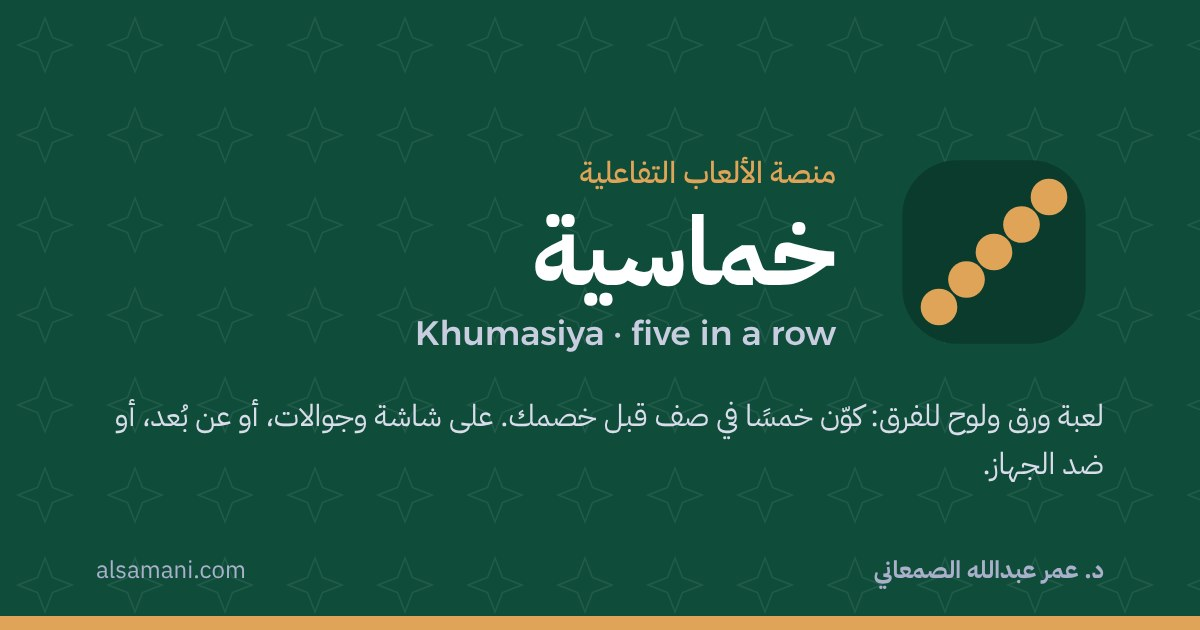
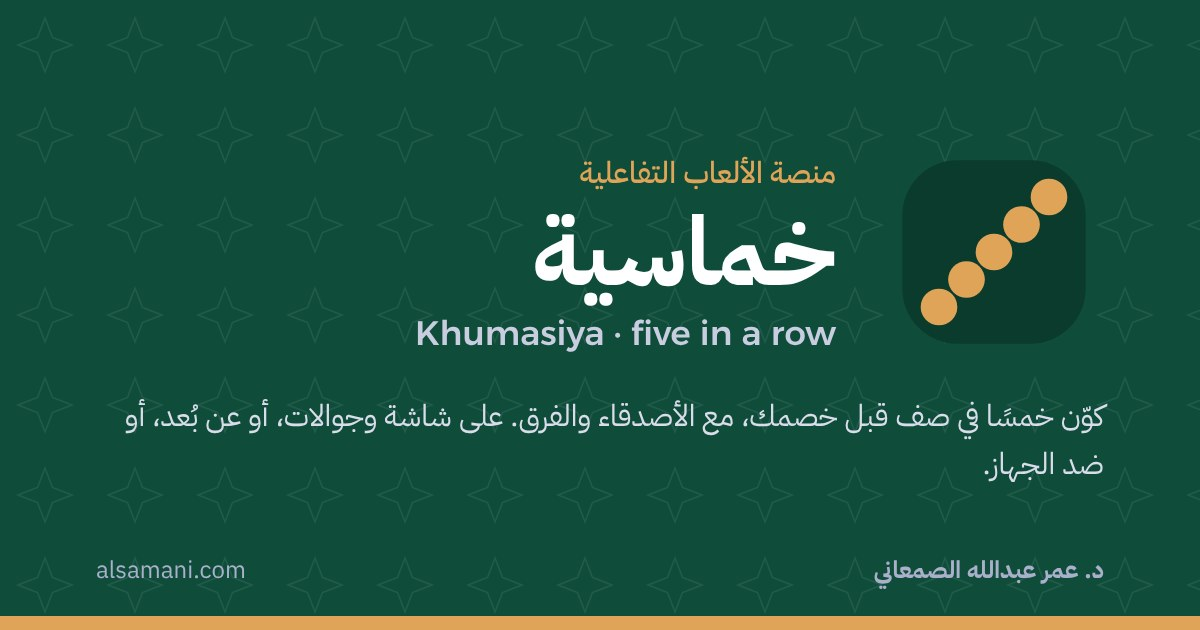
خماسية: تفاعلات وعبارات جاهزة تطير فوق اللوح، وحذف عبارة «لعبة ورق ولوح للفرق»
Claude-Session: https://claude.ai/code/session_01YMViJ1M6kgQFb3eTNHCvJr

Changed region(s): [[0.0925, 0.6333, 0.925, 0.6937]]

diff --git a/play/khumasiya/index.html b/play/khumasiya/index.html
@@ -4,12 +4,12 @@
 <meta charset="utf-8">
 <meta name="viewport" content="width=device-width,initial-scale=1,viewport-fit=cover">
 <title>خماسية: لعبة خمس في صف للفرق | Khumasiya: five in a row | Dr. Omar A. Alsamani</title>
-<meta name="description" content="Khumasiya: a card and board game for teams. Make five in a row before the others, with friends on a big screen and phones, remotely, or against the computer. خماسية: لعبة ورق ولوح للفرق.">
+<meta name="description" content="Khumasiya: make five in a row before the others, with friends on a big screen and phones, remotely, or against the computer. خماسية: خمس في صف قبل خصمك.">
 <link rel="canonical" href="https://alsamani.com/play/khumasiya/">
 <meta property="og:type" content="website">
 <meta property="og:site_name" content="Dr. Omar A. Alsamani">
 <meta property="og:title" content="خماسية: لعبة خمس في صف للفرق | Khumasiya: five in a row | Dr. Omar A. Alsamani">
-<meta property="og:description" content="Khumasiya: a card and board game for teams. Make five in a row before the others, with friends on a big screen and phones, remotely, or against the computer. خماسية: لعبة ورق ولوح للفرق.">
+<meta property="og:description" content="Khumasiya: make five in a row before the others, with friends on a big screen and phones, remotely, or against the computer. خماسية: خمس في صف قبل خصمك.">
 <meta property="og:url" content="https://alsamani.com/play/khumasiya/">
 <meta property="og:image" content="https://alsamani.com/img/og/play-khumasiya.jpg">
 <meta name="twitter:card" content="summary_large_image">
@@ -1397,7 +1397,7 @@ html[dir=ltr] .jr-dch.fd .jr-fold::before{transform:rotate(-45deg)}
 <main data-base="../../">
 <section class="first tl-page sn-page-wrap">
 <nav class="tl-crumb" aria-label="breadcrumb"><a href="../index.html"><span class="ar">منصة الألعاب التفاعلية</span><span class="en">Interactive games</span></a><i class="chev"></i><span><span class="ar">خماسية</span><span class="en">Khumasiya</span></span></nav>
-<header class="kh-head"><svg class="kh-mark" viewBox="0 0 48 48" aria-hidden="true"><rect x="4" y="4" width="40" height="40" rx="12" fill="#0f4d3a"/><g fill="#e0a458"><circle cx="12" cy="36" r="4"/><circle cx="18" cy="30" r="4"/><circle cx="24" cy="24" r="4"/><circle cx="30" cy="18" r="4"/><circle cx="36" cy="12" r="4"/></g><circle cx="36" cy="36" r="3" fill="#fbf6ea" opacity=".5"/><circle cx="12" cy="12" r="3" fill="#fbf6ea" opacity=".5"/></svg><div><h1><span class="ar">خماسية</span><span class="en">Khumasiya</span></h1><p><span class="ar">لعبة ورق ولوح للفرق</span><span class="en">A card and board game for teams</span></p></div></header>
+<header class="kh-head"><svg class="kh-mark" viewBox="0 0 48 48" aria-hidden="true"><rect x="4" y="4" width="40" height="40" rx="12" fill="#0f4d3a"/><g fill="#e0a458"><circle cx="12" cy="36" r="4"/><circle cx="18" cy="30" r="4"/><circle cx="24" cy="24" r="4"/><circle cx="30" cy="18" r="4"/><circle cx="36" cy="12" r="4"/></g><circle cx="36" cy="36" r="3" fill="#fbf6ea" opacity=".5"/><circle cx="12" cy="12" r="3" fill="#fbf6ea" opacity=".5"/></svg><div><h1><span class="ar">خماسية</span><span class="en">Khumasiya</span></h1></div></header>
 <style>/* Khumasiya: a green card table, cream cards, team chips */
 .kh{--felt:#0f4d3a;--felt2:#0b3b2c;--cream:#fbf6ea;--gold:#e0a458;max-width:1100px;margin:0 auto}
 .kh-head{display:flex;align-items:center;justify-content:center;gap:14px;margin:6px 0 22px}.kh-head .kh-mark{width:58px;height:58px}.kh-head h1{margin:0;font-size:2rem}.kh-head p{margin:2px 0 0;color:var(--muted)}
@@ -1465,6 +1465,14 @@ html[dir=ltr] .jr-dch.fd .jr-fold::before{transform:rotate(-45deg)}
 
 @media (max-width:600px){.kh-game{padding:8px;border-radius:16px}.kh-board{gap:2px;padding:3px}.kh-cell{border-radius:3px}}
 .kh-hc .kc{font-family:"Arial Black","Helvetica Neue",Arial,sans-serif;color:#000}.kh-hc .kc.r{color:#d3140b}.kh-hc .kc b{font-weight:900;letter-spacing:-.06em}.kh-hc .kc i{font-family:Arial,sans-serif}
+/* reactions */
+.kh-rx{display:flex;flex-wrap:wrap;gap:6px;justify-content:center;position:relative}
+.kh-rx>button{border:0;background:rgba(0,0,0,.2);border-radius:99px;width:40px;height:40px;font-size:1.25rem;cursor:pointer;touch-action:manipulation}.kh-rx>button:active{transform:scale(.88)}
+.kh-says{display:flex;flex-wrap:wrap;gap:6px;justify-content:center;width:100%}.kh-says[hidden]{display:none}.kh-says button{border:1px solid rgba(255,255,255,.35);background:rgba(0,0,0,.2);color:#fff;border-radius:99px;padding:6px 12px;font:inherit;font-size:.875rem;cursor:pointer}
+.kh-fly{position:fixed;z-index:80;pointer-events:none;transform:translateX(-50%);animation:khFly 3.1s ease-out forwards;text-align:center}
+.kh-fly.emo{font-size:2.6rem;line-height:1}.kh-fly.emo small{display:block;font-size:.8rem;color:#fff;background:rgba(0,0,0,.55);border-radius:99px;padding:1px 8px;margin-top:2px;white-space:nowrap}
+.kh-fly.say{background:#fbf6ea;color:#13281f;border-radius:14px;padding:6px 12px;font-size:.95rem;box-shadow:0 6px 18px rgba(0,0,0,.35);white-space:nowrap}.kh-fly.say b{color:#0f4d3a}
+@keyframes khFly{0%{opacity:0;margin-top:20px}12%{opacity:1}80%{opacity:1}100%{opacity:0;margin-top:-220px}}
 </style>
 <div id="kh" class="kh"><noscript><span class="ar">تعمل هذه اللعبة مع تفعيل JavaScript.</span><span class="en">This game needs JavaScript.</span></noscript></div>
 <script src="https://www.gstatic.com/firebasejs/10.12.2/firebase-app-compat.js"></script><script src="https://www.gstatic.com/firebasejs/10.12.2/firebase-auth-compat.js"></script><script src="https://www.gstatic.com/firebasejs/10.12.2/firebase-database-compat.js"></script><script>window.MD_CFG={"apiKey": "AIzaSyA50i75DT1Is1a6Yn6snW1_JVObc8S3F0Y", "authDomain": "maydan-705ae.firebaseapp.com", "databaseURL": "https://maydan-705ae-default-rtdb.europe-west1.firebasedatabase.app", "projectId": "maydan-705ae", "appId": "1:342187013133:web:d5c2396f0db413f3c51144"};window.MD_MARK="<svg class=\"md-mark\" viewBox=\"0 0 48 48\" aria-hidden=\"true\"><rect x=\"4\" y=\"4\" width=\"40\" height=\"40\" rx=\"12\" fill=\"#23336F\"/><path d=\"M24 9l4.2 6.8 7.8-1.8-1.8 7.8L41 24l-6.8 4.2 1.8 7.8-7.8-1.8L24 39l-4.2-6.8-7.8 1.8 1.8-7.8L7 24l6.8-4.2-1.8-7.8 7.8 1.8z\" fill=\"#C9822B\"/><circle cx=\"24\" cy=\"24\" r=\"6.5\" fill=\"#23336F\"/><circle cx=\"24\" cy=\"24\" r=\"3\" fill=\"#F3E3C7\"/></svg>";</script><script src="https://cdn.jsdelivr.net/npm/qrcode-generator@1.4.4/qrcode.js"></script><script>/* Khumasiya: the rules. Two packs of cards; a 10×10 board with every card except the jacks twice and four free corners.
@@ -1732,7 +1740,7 @@ window.KH = (function () {
     root.innerHTML = `${fresh ? `<div class="kh-card kh-resume"><p>⏸ ${B('لعبة لم تكتمل', 'An unfinished game')} · ${B('الرمز', 'code')} <span dir="ltr">${P.pin}</span></p><div class="kh-row"><button type="button" class="btn solid" id="khRes">${B('أكمل اللعبة ▶', 'Resume ▶')}</button><button type="button" class="btn ghost" id="khDrop">${B('احذفها', 'Remove it')}</button></div></div>` : ''}
       <div class="kh-hero"><div class="kh-mini">${demo()}</div><div>
         <h2>${B('خمس في صف… قبل خصمك!', 'Five in a row… before the others!')}</h2>
-        <p>${B('لعبة ورق ولوح للفرق: العب ورقة من يدك وضع قطعتك على خانتها، وكوّن صفًّا من خمس قطع. ولد أبو عينين يضعك في أي مكان، وولد أبو عين يشيل قطعة خصمك.', 'A card and board game for teams: play a card and put your chip on its space, and make a row of five. A two-eyed jack goes anywhere; a one-eyed jack removes a rival chip.')}</p></div></div>
+        <p>${B('العب ورقة من يدك وضع قطعتك على خانتها، وكوّن صفًّا من خمس قطع. ولد أبو عينين يضعك في أي مكان، وولد أبو عين يشيل قطعة خصمك.', 'Play a card and put your chip on its space, and make a row of five. A two-eyed jack goes anywhere; a one-eyed jack removes a rival chip.')}</p></div></div>
       <div class="kh-modes">
         <button type="button" class="kh-mode" data-go="host"><b>👥 ${B('العب مع الآخرين', 'Play with others')}</b><small>${B('أنشئ لعبة وشارك رمزها: اللوح على شاشة كبيرة والأوراق في الجوالات، أو كلٌّ من مكانه عن بُعد.', 'Create a game and share its code: the board on a big screen and the hands on phones, or everyone remote.')}</small></button>
         <button type="button" class="kh-mode" data-go="join"><b>🔢 ${B('ادخل برمز', 'Join with a code')}</b><small>${B('عندك رمز لعبة؟ ادخل واختر فريقك.', 'Got a game code? Join and pick your team.')}</small></button>
@@ -1863,6 +1871,7 @@ window.KH = (function () {
     return '';
   }
   function run() {
+    listenRx();
     on(G.ref.child('mv'), 'child_added', s => { const v = s.val() || {}; apply(s.key, v.k, v.c, v.x); s.ref.remove(); });
     show();
   }
@@ -1927,6 +1936,7 @@ window.KH = (function () {
     on(G.ref.child('st'), 'value', s => { if (!s.exists()) { stop(); root.innerHTML = `<div class="kh-card kh-narrow"><p class="kh-big">${B('انتهت اللعبة', 'The game has ended')}</p><button type="button" class="btn ghost" id="khHome">${B('الرئيسية', 'Home')}</button></div>`; root.querySelector('#khHome').onclick = () => { history.replaceState(null, '', location.pathname); home(); }; return; } G.stt = s.val(); draw(); });
     on(G.ref.child('tm'), 'value', s => { G.tm = s.val() || {}; if (G.stt === 'lobby') draw(); });
     on(G.ref.child('names'), 'value', s => { G.names = s.val() || {}; });
+    listenRx();
     on(G.ref.child('g'), 'value', s => { G.P = s.val(); draw(); });
     on(db.ref('khh/' + pin + '/' + uid), 'value', s => { G.hand = s.val() || []; draw(); });
   }
@@ -1937,12 +1947,34 @@ window.KH = (function () {
     const leave = () => { history.replaceState(null, '', location.pathname); home(); };
     on(G.ref.child('st'), 'value', s => { if (!s.exists()) { stop(); root.innerHTML = `<div class="kh-card kh-narrow"><p class="kh-big">${B('انتهت اللعبة', 'The game has ended')}</p><button type="button" class="btn ghost" id="khHome">${B('الرئيسية', 'Home')}</button></div>`; root.querySelector('#khHome').onclick = leave; } });
     on(G.ref.child('names'), 'value', s => { G.names = s.val() || {}; });
+    listenRx();
     on(G.ref.child('g'), 'value', s => {
       G.P = s.val();
       if (!G.P) { root.innerHTML = `<div class="kh-card kh-narrow kh-wait"><p class="kh-big">👀 ${B('أنت تشاهد', 'You are watching')}</p><p>${B('لم تبدأ اللعبة بعد؛ ستظهر هنا حين تبدأ.', 'The game has not started yet; it will show here when it does.')}</p></div>`; return; }
       view({ P: G.P, hand: null, me: null, names: G.names, screen: true, watch: true, act: () => '', again: leave });
     });
   }
+
+  /* ---------- reactions: emoji and short ready phrases that float over the board for everyone ---------- */
+  const EMO = ['👏', '🔥', '😂', '😮', '💪', '❤', '😅', '🤝'];
+  const SAY = () => [T('أحسنت!', 'Well done!'), T('يا سلام! 😍', 'Wow! 😍'), T('حظ أوفر 😅', 'Better luck 😅'), T('استعجل شوي ⏱', 'Hurry up ⏱'), T('ركّزوا يا فريق 💪', 'Focus, team 💪'), T('سدّوا عليهم!', 'Block them!'), T('لعبة حلوة 🤝', 'Good game 🤝')];
+  let lastRx = 0;
+  function listenRx() {
+    const fly = s => { const v = s.val() || {}; if (!v.e || !G) return; G.rxSeen = G.rxSeen || {}; const was = G.rxSeen[s.key]; if (was && was.e === v.e && Date.now() - was.at < 1100) return; G.rxSeen[s.key] = { e: v.e, at: Date.now() }; if (Date.now() - (v.t || 0) - off > 15000) return; float(v.e, (G && G.names && G.names[s.key]) || ''); };
+    on(G.ref.child('rx'), 'child_added', fly); on(G.ref.child('rx'), 'child_changed', fly);
+  }
+  function float(e, who) {
+    const b = root.querySelector('.kh-board') || root, r = b.getBoundingClientRect(), d = document.createElement('div'), big = [...e].length <= 2;
+    d.className = 'kh-fly' + (big ? ' emo' : ' say');
+    d.innerHTML = big ? `${esc(e)}${who ? `<small dir="auto">${esc(who)}</small>` : ''}` : `<b dir="auto">${esc(who)}</b> <span dir="auto">${esc(e)}</span>`;
+    d.style.left = (r.left + r.width * (.15 + Math.random() * .7)) + 'px'; d.style.top = (r.top + r.height * .75) + 'px';
+    document.body.appendChild(d); setTimeout(() => d.remove(), 3200);
+  }
+  function sendRx(e) {
+    if (Date.now() - lastRx < 1200 || !G || !G.ref || !uid) return; lastRx = Date.now(); buzz(10);
+    G.ref.child('rx/' + uid).set({ e, t: TS() }).catch(() => {});
+  }
+  const rxBar = () => `<div class="kh-rx">${EMO.map(e => `<button type="button" data-rx="${e}">${e}</button>`).join('')}<button type="button" class="kh-say" data-say>💬</button><div class="kh-says" hidden>${SAY().map(t => `<button type="button" data-rx="${esc(t)}">${esc(t)}</button>`).join('')}</div></div>`;
 
   /* ---------- the table: the board, the teams, whose turn, and this player's hand ---------- */
   let sel = null, lastSeen = -1;
@@ -1974,6 +2006,7 @@ window.KH = (function () {
       ${me != null && !screen ? `<div class="kh-hand${mine ? ' mine' : ''}">${hand.map(c => `<button type="button" class="kh-hc${sel === c ? ' on' : ''}${mine && !KH.twoEyed(c) && !KH.oneEyed(c) && !legalOf(c).length ? ' dead' : ''}" data-c="${c}" style="--c:${myT != null ? COL[myT] : '#888'}">${card(c)}</button>`).join('')}</div>
         <div class="kh-row kh-acts">${dead ? `<button type="button" class="btn ghost" id="khSwap">↻ ${B('استبدل الورقة الميتة', 'Swap the dead card')}</button>` : ''}${stuck ? `<button type="button" class="btn ghost" id="khPass">${B('لا حركة لديك: تخطَّ الدور', 'No move: pass')}</button>` : ''}</div>` : ''}
       ${screen ? `<div class="kh-row"><button type="button" class="btn ghost" id="khFs">⛶ ${B('ملء الشاشة', 'Full screen')}</button></div>` : ''}
+      ${G && G.mode !== 'local' && P.win === -1 ? rxBar() : ''}
       <div class="kh-help">${rules(false)}</div>
       ${P.win !== -1 ? `<div class="kh-row"><button type="button" class="btn solid" id="khAgain">${B('لعبة جديدة', 'New game')}</button></div>` : ''}</div>`;
     root.querySelectorAll('[data-c]').forEach(b => b.onclick = () => { sel = sel === b.dataset.c ? null : b.dataset.c; buzz(8); view({ P, hand, me, names, screen, watch, act, again }); });
@@ -1983,6 +2016,8 @@ window.KH = (function () {
     const ag = root.querySelector('#khAgain'); if (ag) ag.onclick = again;
     const ck = root.querySelector('#khClk');
     if (ck) { let warned = false; const tick = () => { const left = Math.max(0, Math.ceil((P.dl - now()) / 1000)); ck.textContent = '⏱ ' + left; ck.classList.toggle('hot', left <= 10); if (mine && left <= 5 && !warned) { warned = true; buzz([80, 60, 80]); } }; tick(); clk = setInterval(tick, 250); }
+    root.querySelectorAll('[data-rx]').forEach(b => b.onclick = () => { sendRx(b.dataset.rx); const ss = root.querySelector('.kh-says'); if (ss) ss.hidden = true; });
+    const sy = root.querySelector('[data-say]'); if (sy) sy.onclick = () => { const ss = root.querySelector('.kh-says'); ss.hidden = !ss.hidden; };
     const fs = root.querySelector('#khFs'); if (fs) fs.onclick = () => document.fullscreenElement ? document.exitFullscreen() : root.requestFullscreen && root.requestFullscreen();
   }
 

diff --git a/_src/src/khumasiya.js b/_src/src/khumasiya.js
@@ -54,7 +54,7 @@
     root.innerHTML = `${fresh ? `<div class="kh-card kh-resume"><p>⏸ ${B('لعبة لم تكتمل', 'An unfinished game')} · ${B('الرمز', 'code')} <span dir="ltr">${P.pin}</span></p><div class="kh-row"><button type="button" class="btn solid" id="khRes">${B('أكمل اللعبة ▶', 'Resume ▶')}</button><button type="button" class="btn ghost" id="khDrop">${B('احذفها', 'Remove it')}</button></div></div>` : ''}
       <div class="kh-hero"><div class="kh-mini">${demo()}</div><div>
         <h2>${B('خمس في صف… قبل خصمك!', 'Five in a row… before the others!')}</h2>
-        <p>${B('لعبة ورق ولوح للفرق: العب ورقة من يدك وضع قطعتك على خانتها، وكوّن صفًّا من خمس قطع. ولد أبو عينين يضعك في أي مكان، وولد أبو عين يشيل قطعة خصمك.', 'A card and board game for teams: play a card and put your chip on its space, and make a row of five. A two-eyed jack goes anywhere; a one-eyed jack removes a rival chip.')}</p></div></div>
+        <p>${B('العب ورقة من يدك وضع قطعتك على خانتها، وكوّن صفًّا من خمس قطع. ولد أبو عينين يضعك في أي مكان، وولد أبو عين يشيل قطعة خصمك.', 'Play a card and put your chip on its space, and make a row of five. A two-eyed jack goes anywhere; a one-eyed jack removes a rival chip.')}</p></div></div>
       <div class="kh-modes">
         <button type="button" class="kh-mode" data-go="host"><b>👥 ${B('العب مع الآخرين', 'Play with others')}</b><small>${B('أنشئ لعبة وشارك رمزها: اللوح على شاشة كبيرة والأوراق في الجوالات، أو كلٌّ من مكانه عن بُعد.', 'Create a game and share its code: the board on a big screen and the hands on phones, or everyone remote.')}</small></button>
         <button type="button" class="kh-mode" data-go="join"><b>🔢 ${B('ادخل برمز', 'Join with a code')}</b><small>${B('عندك رمز لعبة؟ ادخل واختر فريقك.', 'Got a game code? Join and pick your team.')}</small></button>
@@ -185,6 +185,7 @@
     return '';
   }
   function run() {
+    listenRx();
     on(G.ref.child('mv'), 'child_added', s => { const v = s.val() || {}; apply(s.key, v.k, v.c, v.x); s.ref.remove(); });
     show();
   }
@@ -249,6 +250,7 @@
     on(G.ref.child('st'), 'value', s => { if (!s.exists()) { stop(); root.innerHTML = `<div class="kh-card kh-narrow"><p class="kh-big">${B('انتهت اللعبة', 'The game has ended')}</p><button type="button" class="btn ghost" id="khHome">${B('الرئيسية', 'Home')}</button></div>`; root.querySelector('#khHome').onclick = () => { history.replaceState(null, '', location.pathname); home(); }; return; } G.stt = s.val(); draw(); });
     on(G.ref.child('tm'), 'value', s => { G.tm = s.val() || {}; if (G.stt === 'lobby') draw(); });
     on(G.ref.child('names'), 'value', s => { G.names = s.val() || {}; });
+    listenRx();
     on(G.ref.child('g'), 'value', s => { G.P = s.val(); draw(); });
     on(db.ref('khh/' + pin + '/' + uid), 'value', s => { G.hand = s.val() || []; draw(); });
   }
@@ -259,12 +261,34 @@
     const leave = () => { history.replaceState(null, '', location.pathname); home(); };
     on(G.ref.child('st'), 'value', s => { if (!s.exists()) { stop(); root.innerHTML = `<div class="kh-card kh-narrow"><p class="kh-big">${B('انتهت اللعبة', 'The game has ended')}</p><button type="button" class="btn ghost" id="khHome">${B('الرئيسية', 'Home')}</button></div>`; root.querySelector('#khHome').onclick = leave; } });
     on(G.ref.child('names'), 'value', s => { G.names = s.val() || {}; });
+    listenRx();
     on(G.ref.child('g'), 'value', s => {
       G.P = s.val();
       if (!G.P) { root.innerHTML = `<div class="kh-card kh-narrow kh-wait"><p class="kh-big">👀 ${B('أنت تشاهد', 'You are watching')}</p><p>${B('لم تبدأ اللعبة بعد؛ ستظهر هنا حين تبدأ.', 'The game has not started yet; it will show here when it does.')}</p></div>`; return; }
       view({ P: G.P, hand: null, me: null, names: G.names, screen: true, watch: true, act: () => '', again: leave });
     });
   }
+
+  /* ---------- reactions: emoji and short ready phrases that float over the board for everyone ---------- */
+  const EMO = ['👏', '🔥', '😂', '😮', '💪', '❤', '😅', '🤝'];
+  const SAY = () => [T('أحسنت!', 'Well done!'), T('يا سلام! 😍', 'Wow! 😍'), T('حظ أوفر 😅', 'Better luck 😅'), T('استعجل شوي ⏱', 'Hurry up ⏱'), T('ركّزوا يا فريق 💪', 'Focus, team 💪'), T('سدّوا عليهم!', 'Block them!'), T('لعبة حلوة 🤝', 'Good game 🤝')];
+  let lastRx = 0;
+  function listenRx() {
+    const fly = s => { const v = s.val() || {}; if (!v.e || !G) return; G.rxSeen = G.rxSeen || {}; const was = G.rxSeen[s.key]; if (was && was.e === v.e && Date.now() - was.at < 1100) return; G.rxSeen[s.key] = { e: v.e, at: Date.now() }; if (Date.now() - (v.t || 0) - off > 15000) return; float(v.e, (G && G.names && G.names[s.key]) || ''); };
+    on(G.ref.child('rx'), 'child_added', fly); on(G.ref.child('rx'), 'child_changed', fly);
+  }
+  function float(e, who) {
+    const b = root.querySelector('.kh-board') || root, r = b.getBoundingClientRect(), d = document.createElement('div'), big = [...e].length <= 2;
+    d.className = 'kh-fly' + (big ? ' emo' : ' say');
+    d.innerHTML = big ? `${esc(e)}${who ? `<small dir="auto">${esc(who)}</small>` : ''}` : `<b dir="auto">${esc(who)}</b> <span dir="auto">${esc(e)}</span>`;
+    d.style.left = (r.left + r.width * (.15 + Math.random() * .7)) + 'px'; d.style.top = (r.top + r.height * .75) + 'px';
+    document.body.appendChild(d); setTimeout(() => d.remove(), 3200);
+  }
+  function sendRx(e) {
+    if (Date.now() - lastRx < 1200 || !G || !G.ref || !uid) return; lastRx = Date.now(); buzz(10);
+    G.ref.child('rx/' + uid).set({ e, t: TS() }).catch(() => {});
+  }
+  const rxBar = () => `<div class="kh-rx">${EMO.map(e => `<button type="button" data-rx="${e}">${e}</button>`).join('')}<button type="button" class="kh-say" data-say>💬</button><div class="kh-says" hidden>${SAY().map(t => `<button type="button" data-rx="${esc(t)}">${esc(t)}</button>`).join('')}</div></div>`;
 
   /* ---------- the table: the board, the teams, whose turn, and this player's hand ---------- */
   let sel = null, lastSeen = -1;
@@ -296,6 +320,7 @@
       ${me != null && !screen ? `<div class="kh-hand${mine ? ' mine' : ''}">${hand.map(c => `<button type="button" class="kh-hc${sel === c ? ' on' : ''}${mine && !KH.twoEyed(c) && !KH.oneEyed(c) && !legalOf(c).length ? ' dead' : ''}" data-c="${c}" style="--c:${myT != null ? COL[myT] : '#888'}">${card(c)}</button>`).join('')}</div>
         <div class="kh-row kh-acts">${dead ? `<button type="button" class="btn ghost" id="khSwap">↻ ${B('استبدل الورقة الميتة', 'Swap the dead card')}</button>` : ''}${stuck ? `<button type="button" class="btn ghost" id="khPass">${B('لا حركة لديك: تخطَّ الدور', 'No move: pass')}</button>` : ''}</div>` : ''}
       ${screen ? `<div class="kh-row"><button type="button" class="btn ghost" id="khFs">⛶ ${B('ملء الشاشة', 'Full screen')}</button></div>` : ''}
+      ${G && G.mode !== 'local' && P.win === -1 ? rxBar() : ''}
       <div class="kh-help">${rules(false)}</div>
       ${P.win !== -1 ? `<div class="kh-row"><button type="button" class="btn solid" id="khAgain">${B('لعبة جديدة', 'New game')}</button></div>` : ''}</div>`;
     root.querySelectorAll('[data-c]').forEach(b => b.onclick = () => { sel = sel === b.dataset.c ? null : b.dataset.c; buzz(8); view({ P, hand, me, names, screen, watch, act, again }); });
@@ -305,6 +330,8 @@
     const ag = root.querySelector('#khAgain'); if (ag) ag.onclick = again;
     const ck = root.querySelector('#khClk');
     if (ck) { let warned = false; const tick = () => { const left = Math.max(0, Math.ceil((P.dl - now()) / 1000)); ck.textContent = '⏱ ' + left; ck.classList.toggle('hot', left <= 10); if (mine && left <= 5 && !warned) { warned = true; buzz([80, 60, 80]); } }; tick(); clk = setInterval(tick, 250); }
+    root.querySelectorAll('[data-rx]').forEach(b => b.onclick = () => { sendRx(b.dataset.rx); const ss = root.querySelector('.kh-says'); if (ss) ss.hidden = true; });
+    const sy = root.querySelector('[data-say]'); if (sy) sy.onclick = () => { const ss = root.querySelector('.kh-says'); ss.hidden = !ss.hidden; };
     const fs = root.querySelector('#khFs'); if (fs) fs.onclick = () => document.fullscreenElement ? document.exitFullscreen() : root.requestFullscreen && root.requestFullscreen();
   }
 

diff --git a/play/index.html b/play/index.html
@@ -1398,7 +1398,7 @@ html[dir=ltr] .jr-dch.fd .jr-fold::before{transform:rotate(-45deg)}
 <section class="first tl-page">
 <header class="tl-head"><h1><span class="ar">منصة الألعاب التفاعلية</span><span class="en">Interactive games</span></h1><p class="tl-lede"><span class="ar">منصة تعليمية ترفيهية للتوظيف داخل بيئة التعلم والأنشطة والاجتماعات.</span><span class="en">An educational and entertaining platform to use in learning, activities and meetings.</span></p></header>
 <div class="md-units"><a class="md-unit" href="maydan/index.html"><svg class="md-mark" viewBox="0 0 48 48" aria-hidden="true"><rect x="4" y="4" width="40" height="40" rx="12" fill="#23336F"/><path d="M24 9l4.2 6.8 7.8-1.8-1.8 7.8L41 24l-6.8 4.2 1.8 7.8-7.8-1.8L24 39l-4.2-6.8-7.8 1.8 1.8-7.8L7 24l6.8-4.2-1.8-7.8 7.8 1.8z" fill="#C9822B"/><circle cx="24" cy="24" r="6.5" fill="#23336F"/><circle cx="24" cy="24" r="3" fill="#F3E3C7"/></svg><span><b><span class="ar">ميدان</span><span class="en">Maydan</span></b><small><span class="ar">مسابقات تفاعلية حيّة: سؤال على الشاشة، وكل مشارك يجيب من جواله، والأسرع والأدق يتصدّر. ومعها مكتبة مسابقات جاهزة.</span><span class="en">Live quizzes: a question on the screen, everyone answers from their phone, and the fastest right answers lead. With a library of ready quizzes.</span></small></span></a>
-<a class="md-unit" href="khumasiya/index.html"><svg class="kh-mark" viewBox="0 0 48 48" aria-hidden="true"><rect x="4" y="4" width="40" height="40" rx="12" fill="#0f4d3a"/><g fill="#e0a458"><circle cx="12" cy="36" r="4"/><circle cx="18" cy="30" r="4"/><circle cx="24" cy="24" r="4"/><circle cx="30" cy="18" r="4"/><circle cx="36" cy="12" r="4"/></g><circle cx="36" cy="36" r="3" fill="#fbf6ea" opacity=".5"/><circle cx="12" cy="12" r="3" fill="#fbf6ea" opacity=".5"/></svg><span><b><span class="ar">خماسية</span><span class="en">Khumasiya</span></b><small><span class="ar">لعبة ورق ولوح للفرق: كوّن خمسًا في صف قبل خصمك. اللوح على الشاشة والأوراق في الجوالات، أو عن بُعد، أو ضد الجهاز.</span><span class="en">A card and board game for teams: make five in a row before the others. The board on a screen and the hands on phones, remote play, or against the computer.</span></small></span></a></div>
+<a class="md-unit" href="khumasiya/index.html"><svg class="kh-mark" viewBox="0 0 48 48" aria-hidden="true"><rect x="4" y="4" width="40" height="40" rx="12" fill="#0f4d3a"/><g fill="#e0a458"><circle cx="12" cy="36" r="4"/><circle cx="18" cy="30" r="4"/><circle cx="24" cy="24" r="4"/><circle cx="30" cy="18" r="4"/><circle cx="36" cy="12" r="4"/></g><circle cx="36" cy="36" r="3" fill="#fbf6ea" opacity=".5"/><circle cx="12" cy="12" r="3" fill="#fbf6ea" opacity=".5"/></svg><span><b><span class="ar">خماسية</span><span class="en">Khumasiya</span></b><small><span class="ar">كوّن خمسًا في صف قبل خصمك. اللوح على الشاشة والأوراق في الجوالات، أو عن بُعد، أو ضد الجهاز.</span><span class="en">Make five in a row before the others. The board on a screen and the hands on phones, remote play, or against the computer.</span></small></span></a></div>
 <style>.md-units{display:grid;gap:14px;max-width:760px;margin:0 auto}.md-unit{display:flex;gap:16px;align-items:center;background:var(--surface);border-radius:18px;padding:18px;text-decoration:none;color:var(--ink);box-shadow:0 1px 2px rgba(0,0,0,.04)}.md-unit:hover{box-shadow:0 6px 22px rgba(0,0,0,.08)}.md-unit .md-mark,.md-unit .kh-mark{width:64px;height:64px;flex:none}.md-unit b{display:block;font-size:1.25rem;margin-bottom:4px}.md-unit small{color:var(--muted);font-size:.9375rem;line-height:1.7}.md-lib-ic{width:64px;height:64px;flex:none;display:grid;place-items:center;font-size:2.4rem;background:#f4ead8;border-radius:16px}</style>
 </section>
 </main>

diff --git a/_src/tools/og_brand.js b/_src/tools/og_brand.js
@@ -21,7 +21,7 @@ body:after{content:"";position:absolute;inset:auto 0 0 0;height:14px;background:
 .q{font-size:30px;color:#d9dcea;line-height:1.6;margin-top:30px;max-width:1000px}.f{position:absolute;bottom:42px;inset-inline:96px;display:flex;justify-content:space-between;font-size:24px;color:#aab0cc}.f span{direction:ltr}</style></head>
 <body><div class="r">${MARK}<div><p class="e">منصة الألعاب التفاعلية</p><h1>${h}</h1><p class="en">${en}</p></div></div><p class="q">${sub}</p><div class="f"><b>${foot}</b><span>alsamani.com</span></div></body></html>`;
 const khMark = `<svg class="md-mark" viewBox="0 0 48 48"><rect x="4" y="4" width="40" height="40" rx="12" fill="#0b3b2c"/><g fill="#e0a458"><circle cx="12" cy="36" r="4"/><circle cx="18" cy="30" r="4"/><circle cx="24" cy="24" r="4"/><circle cx="30" cy="18" r="4"/><circle cx="36" cy="12" r="4"/></g></svg>`;
-const kh = game('خماسية', 'لعبة ورق ولوح للفرق: كوّن خمسًا في صف قبل خصمك. على شاشة وجوالات، أو عن بُعد، أو ضد الجهاز.', 'Khumasiya · five in a row', 'د. عمر عبدالله الصمعاني').replace(MARK, khMark).replace(/background:#1f2a5c/, 'background:#0f4d3a');
+const kh = game('خماسية', 'كوّن خمسًا في صف قبل خصمك، مع الأصدقاء والفرق. على شاشة وجوالات، أو عن بُعد، أو ضد الجهاز.', 'Khumasiya · five in a row', 'د. عمر عبدالله الصمعاني').replace(MARK, khMark).replace(/background:#1f2a5c/, 'background:#0f4d3a');
 const cards = [
   ['site', site],
   ['play', game('منصة الألعاب التفاعلية'.replace('منصة ', ''), 'منصة تعليمية ترفيهية للتوظيف داخل بيئة التعلم والأنشطة والاجتماعات.', 'Interactive games', 'د. عمر عبدالله الصمعاني')],

diff --git a/_src/src/khumasiya.css b/_src/src/khumasiya.css
@@ -65,3 +65,11 @@
 
 @media (max-width:600px){.kh-game{padding:8px;border-radius:16px}.kh-board{gap:2px;padding:3px}.kh-cell{border-radius:3px}}
 .kh-hc .kc{font-family:"Arial Black","Helvetica Neue",Arial,sans-serif;color:#000}.kh-hc .kc.r{color:#d3140b}.kh-hc .kc b{font-weight:900;letter-spacing:-.06em}.kh-hc .kc i{font-family:Arial,sans-serif}
+/* reactions */
+.kh-rx{display:flex;flex-wrap:wrap;gap:6px;justify-content:center;position:relative}
+.kh-rx>button{border:0;background:rgba(0,0,0,.2);border-radius:99px;width:40px;height:40px;font-size:1.25rem;cursor:pointer;touch-action:manipulation}.kh-rx>button:active{transform:scale(.88)}
+.kh-says{display:flex;flex-wrap:wrap;gap:6px;justify-content:center;width:100%}.kh-says[hidden]{display:none}.kh-says button{border:1px solid rgba(255,255,255,.35);background:rgba(0,0,0,.2);color:#fff;border-radius:99px;padding:6px 12px;font:inherit;font-size:.875rem;cursor:pointer}
+.kh-fly{position:fixed;z-index:80;pointer-events:none;transform:translateX(-50%);animation:khFly 3.1s ease-out forwards;text-align:center}
+.kh-fly.emo{font-size:2.6rem;line-height:1}.kh-fly.emo small{display:block;font-size:.8rem;color:#fff;background:rgba(0,0,0,.55);border-radius:99px;padding:1px 8px;margin-top:2px;white-space:nowrap}
+.kh-fly.say{background:#fbf6ea;color:#13281f;border-radius:14px;padding:6px 12px;font-size:.95rem;box-shadow:0 6px 18px rgba(0,0,0,.35);white-space:nowrap}.kh-fly.say b{color:#0f4d3a}
+@keyframes khFly{0%{opacity:0;margin-top:20px}12%{opacity:1}80%{opacity:1}100%{opacity:0;margin-top:-220px}}

diff --git a/_src/tools_pages.py b/_src/tools_pages.py
@@ -250,7 +250,7 @@ def play_index():
     return f'''<section class="first tl-page">
 <header class="tl-head"><h1>{bi('منصة الألعاب التفاعلية', 'Interactive games')}</h1><p class="tl-lede">{bi('منصة تعليمية ترفيهية للتوظيف داخل بيئة التعلم والأنشطة والاجتماعات.', 'An educational and entertaining platform to use in learning, activities and meetings.')}</p></header>
 <div class="md-units"><a class="md-unit" href="maydan/index.html">{MAYDAN_MARK}<span><b>{bi('ميدان', 'Maydan')}</b><small>{bi('مسابقات تفاعلية حيّة: سؤال على الشاشة، وكل مشارك يجيب من جواله، والأسرع والأدق يتصدّر. ومعها مكتبة مسابقات جاهزة.', 'Live quizzes: a question on the screen, everyone answers from their phone, and the fastest right answers lead. With a library of ready quizzes.')}</small></span></a>
-<a class="md-unit" href="khumasiya/index.html">{KH_MARK}<span><b>{bi('خماسية', 'Khumasiya')}</b><small>{bi('لعبة ورق ولوح للفرق: كوّن خمسًا في صف قبل خصمك. اللوح على الشاشة والأوراق في الجوالات، أو عن بُعد، أو ضد الجهاز.', 'A card and board game for teams: make five in a row before the others. The board on a screen and the hands on phones, remote play, or against the computer.')}</small></span></a></div>
+<a class="md-unit" href="khumasiya/index.html">{KH_MARK}<span><b>{bi('خماسية', 'Khumasiya')}</b><small>{bi('كوّن خمسًا في صف قبل خصمك. اللوح على الشاشة والأوراق في الجوالات، أو عن بُعد، أو ضد الجهاز.', 'Make five in a row before the others. The board on a screen and the hands on phones, remote play, or against the computer.')}</small></span></a></div>
 <style>.md-units{{display:grid;gap:14px;max-width:760px;margin:0 auto}}.md-unit{{display:flex;gap:16px;align-items:center;background:var(--surface);border-radius:18px;padding:18px;text-decoration:none;color:var(--ink);box-shadow:0 1px 2px rgba(0,0,0,.04)}}.md-unit:hover{{box-shadow:0 6px 22px rgba(0,0,0,.08)}}.md-unit .md-mark,.md-unit .kh-mark{{width:64px;height:64px;flex:none}}.md-unit b{{display:block;font-size:1.25rem;margin-bottom:4px}}.md-unit small{{color:var(--muted);font-size:.9375rem;line-height:1.7}}.md-lib-ic{{width:64px;height:64px;flex:none;display:grid;place-items:center;font-size:2.4rem;background:#f4ead8;border-radius:16px}}</style>
 </section>'''
 def maydan_body():
@@ -269,7 +269,7 @@ def khumasiya_body():
     src = lambda f: open(os.path.join(ROOT, 'src', f)).read()
     return f'''<section class="first tl-page sn-page-wrap">
 <nav class="tl-crumb" aria-label="breadcrumb"><a href="../index.html">{bi('منصة الألعاب التفاعلية', 'Interactive games')}</a><i class="chev"></i><span>{bi('خماسية', 'Khumasiya')}</span></nav>
-<header class="kh-head">{KH_MARK}<div><h1>{bi('خماسية', 'Khumasiya')}</h1><p>{bi('لعبة ورق ولوح للفرق', 'A card and board game for teams')}</p></div></header>
+<header class="kh-head">{KH_MARK}<div><h1>{bi('خماسية', 'Khumasiya')}</h1></div></header>
 <style>{src('khumasiya.css')}</style>
 <div id="kh" class="kh"><noscript>{bi("تعمل هذه اللعبة مع تفعيل JavaScript.", "This game needs JavaScript.")}</noscript></div>
 {MD_SCRIPTS()}<script src="https://cdn.jsdelivr.net/npm/qrcode-generator@1.4.4/qrcode.js"></script><script>{src('kh_engine.js')}</script><script>{src('khumasiya.js')}</script>

diff --git a/_src/build.py b/_src/build.py
@@ -693,7 +693,7 @@ DESCS['play'] = 'Interactive games and quizzes to play together. منصة الأ
 PAGES.append(('m', 1, 'ميدان: ادخل المسابقة | Maydan: join | Dr. Omar A. Alsamani', _tp.maydan_join))
 DESCS['m'] = 'Join a Maydan live quiz with its six-digit code. ادخل مسابقة ميدان برمزها.'
 PAGES.append(('play/khumasiya', 2, 'خماسية: لعبة خمس في صف للفرق | Khumasiya: five in a row | Dr. Omar A. Alsamani', _tp.khumasiya_body))
-DESCS['play/khumasiya'] = 'Khumasiya: a card and board game for teams. Make five in a row before the others, with friends on a big screen and phones, remotely, or against the computer. خماسية: لعبة ورق ولوح للفرق.'
+DESCS['play/khumasiya'] = 'Khumasiya: make five in a row before the others, with friends on a big screen and phones, remotely, or against the computer. خماسية: خمس في صف قبل خصمك.'
 PAGES.append(('play/maydan', 2, 'ميدان: مسابقات تفاعلية حيّة | Maydan: live quizzes | Dr. Omar A. Alsamani', _tp.maydan_body))
 DESCS['play/maydan'] = 'Maydan: live interactive quizzes. Write the questions by pasting them, uploading Word, Excel or PDF, or asking an AI. ميدان: مسابقات تفاعلية حيّة.'
 PAGES.append(('tools/qr', 2, 'رمز QR | QR code | Dr. Omar A. Alsamani', _tp.qr_body))
